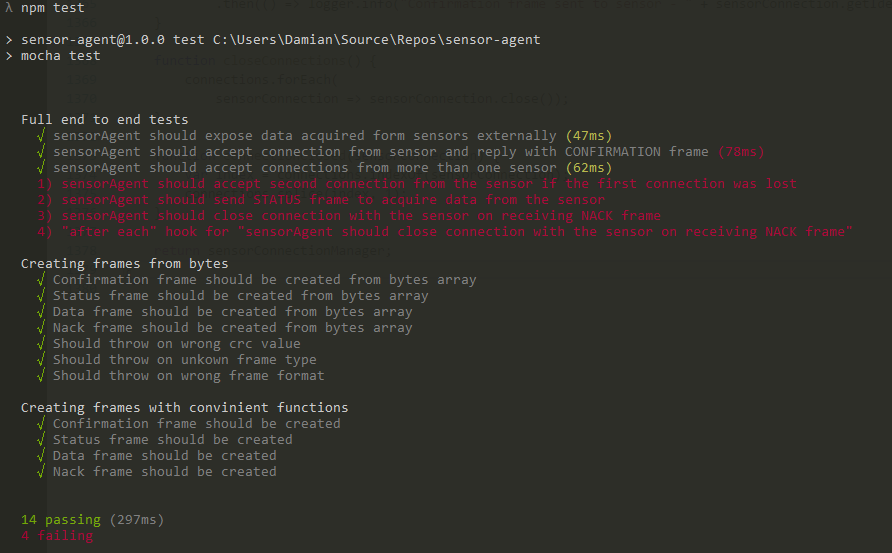
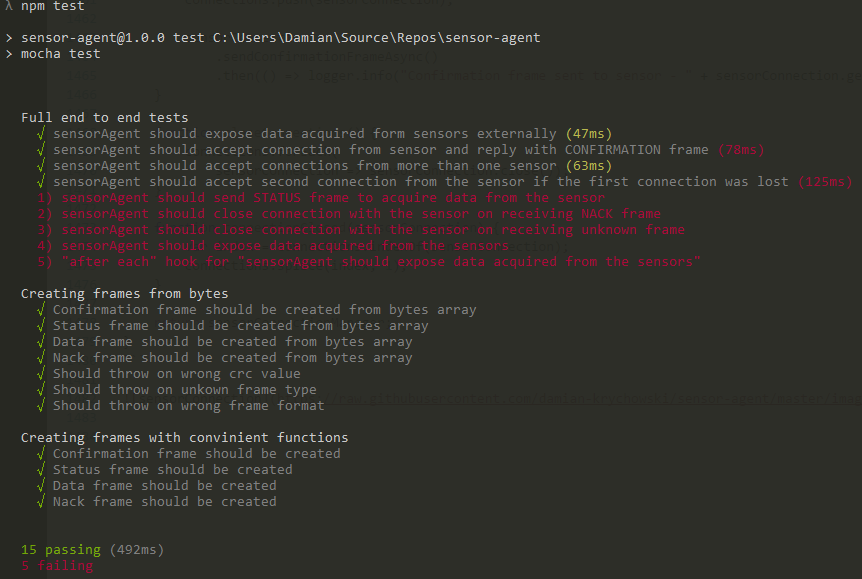
New features added to sensor

diff --git a/test/sensor.js b/test/sensor.js
@@ -1,42 +1,80 @@
 var Promise = require("bluebird");
 var net = require("net");
 var logger = require("winston");
+var frameFactory = require("../frame");
 
-module.exports.create = function(){
+module.exports.create = function () {
     var sensor = {
         withServerHost: withServerHost,
         withServerPort: withServerPort,
-        connectAsync: connectAsync
+        withFramesToRespondWith: withFramesToRespondWith,
+        withSensorId: withSensorId,
+        withSensorValue: withSensorValue,
+        connectAsync: connectAsync,
+        destroyConnection: destroyConnection,
+        dataFrame: dataFrame
     }
-    
+
     var serverHost, serverPort;
     var client = new net.Socket();
     var identity;
-    var receivedData = [];
     var receivedDataCounter = 0;
-    
-    function withServerHost(host){
+    var framesToRespondWith;
+    var framesToRespondWithIndex = 0;
+    var sensorId;
+    var sensorValue;
+
+    function withServerHost(host) {
         serverHost = host;
         return sensor;
     }
-    
-    function withServerPort(port){
+
+    function withServerPort(port) {
         serverPort = port;
         return sensor;
     }
+
+    function withFramesToRespondWith(frames) {
+        framesToRespondWith = frames.slice();
+        return sensor;
+    }
+
+    function withSensorId(id) {
+        sensorId = id;
+        return sensor;
+    }
+
+    function withSensorValue(value) {
+        sensorValue = value;
+        return sensor;
+    }
     
-    client.on("data", function(data) {
-        receivedData.push(data);
+    function dataFrame(){
+        return frameFactory
+            .createDataFrame(sensorId, sensorValue)
+            .getBytes();
+    }
+
+    client.on("data", function (data) {
         receivedDataCounter++;
-        
-        if(receivedDataCounter === 1){
+
+        if (receivedDataCounter === 1) {
             sensor.firstReceivedFrame = data;
+        }
+
+        if (receivedDataCounter === 2) {
+            sensor.secondReceivedFrame = data;
+        }
+
+        if (framesToRespondWith && framesToRespondWith[framesToRespondWithIndex]) {
+            client.write(framesToRespondWith[framesToRespondWithIndex]);
+            framesToRespondWithIndex++;
         }
     });
 
-     function connectAsync() {
-        return new Promise(function(resolve, reject) {
-            client.connect(serverPort, serverHost, function(err) {
+    function connectAsync() {
+        return new Promise(function (resolve, reject) {
+            client.connect(serverPort, serverHost, function (err) {
                 if (err) {
                     logger.error("Client error " + err.toString());
                     reject(err);
@@ -48,6 +86,10 @@ module.exports.create = function(){
             });
         });
     }
-    
+
+    function destroyConnection() {
+        client.destroy();
+    }
+
     return sensor;
 }
